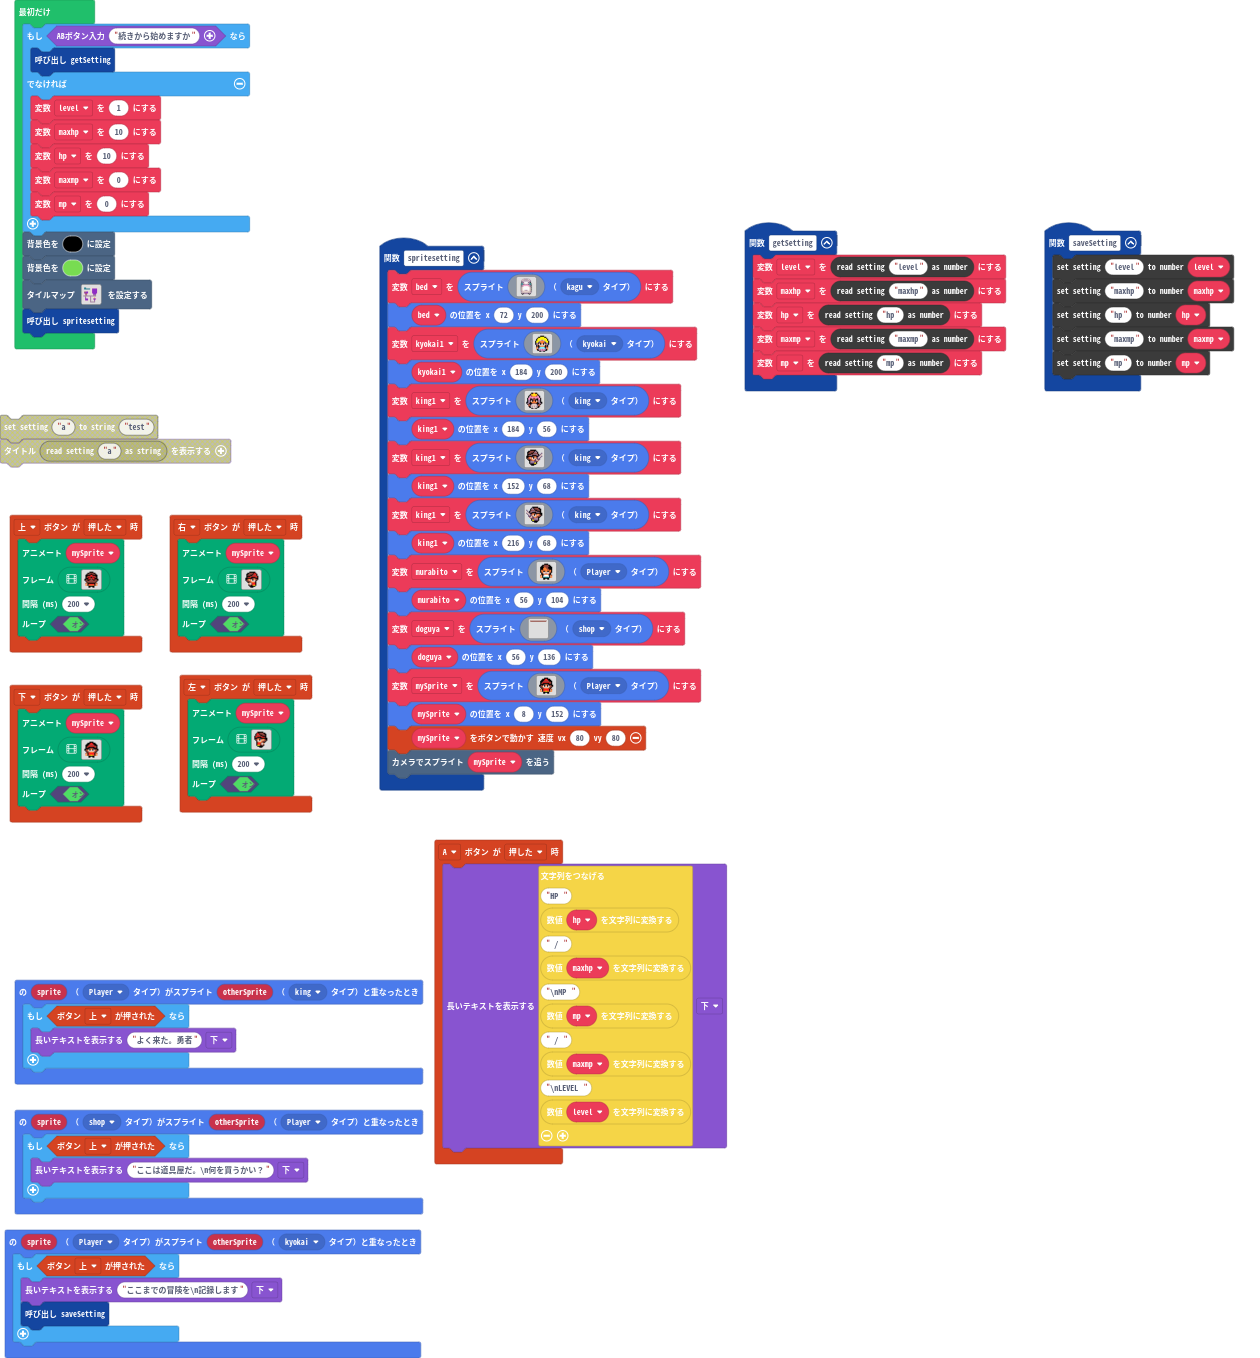
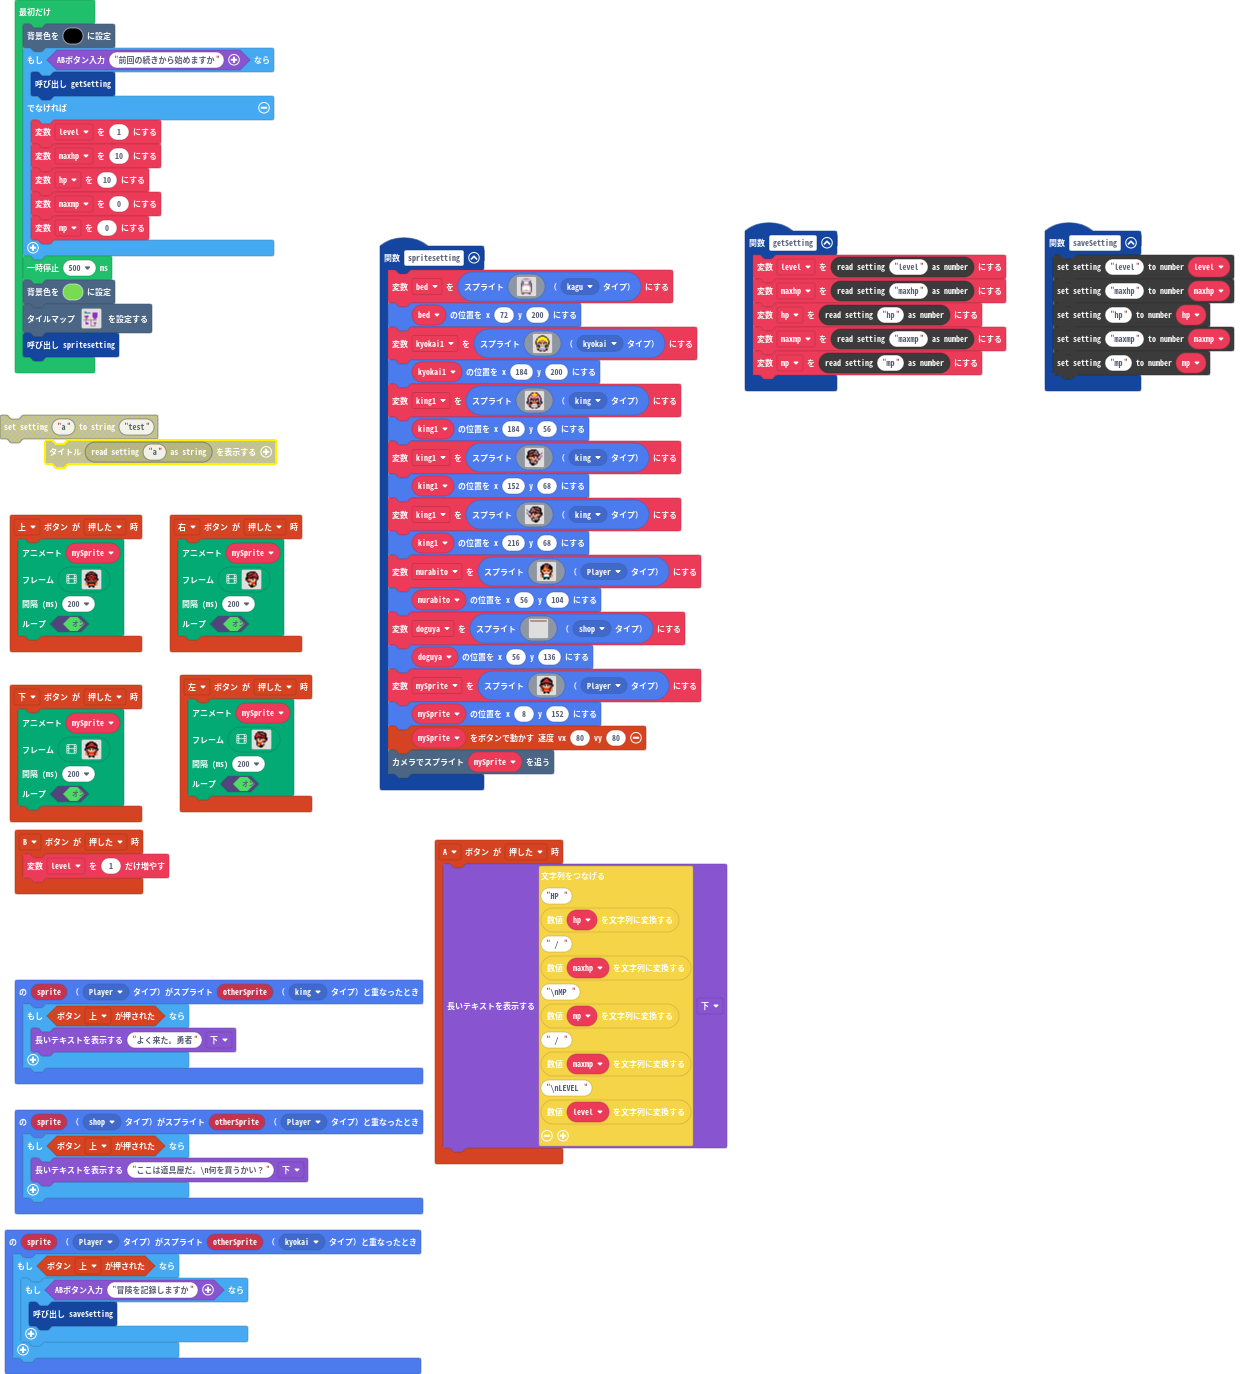
更新 main.blocks, main.ts

diff --git a/main.ts b/main.ts
@@ -403,6 +403,9 @@ controller.left.onEvent(ControllerButtonEvent.Pressed, function () {
     true
     )
 })
+controller.B.onEvent(ControllerButtonEvent.Pressed, function () {
+    level += 1
+})
 controller.up.onEvent(ControllerButtonEvent.Pressed, function () {
     animation.runImageAnimation(
     mySprite,
@@ -498,8 +501,9 @@ sprites.onOverlap(SpriteKind.Player, SpriteKind.king, function (sprite, otherSpr
 })
 sprites.onOverlap(SpriteKind.Player, SpriteKind.kyokai, function (sprite, otherSprite) {
     if (controller.up.isPressed()) {
-        game.showLongText("ここまでの冒険を\\n記録します", DialogLayout.Bottom)
-        saveSetting()
+        if (game.ask("冒険を記録しますか")) {
+            saveSetting()
+        }
     }
 })
 controller.A.onEvent(ControllerButtonEvent.Pressed, function () {
@@ -516,7 +520,8 @@ let maxmp = 0
 let hp = 0
 let maxhp = 0
 let level = 0
-if (game.ask("続きから始めますか")) {
+scene.setBackgroundColor(15)
+if (game.ask("前回の続きから始めますか")) {
     getSetting()
 } else {
     level = 1
@@ -525,7 +530,7 @@ if (game.ask("続きから始めますか")) {
     maxmp = 0
     mp = 0
 }
-scene.setBackgroundColor(15)
+pause(500)
 scene.setBackgroundColor(7)
 tiles.setTilemap(tilemap`レベル1`)
 spritesetting()
